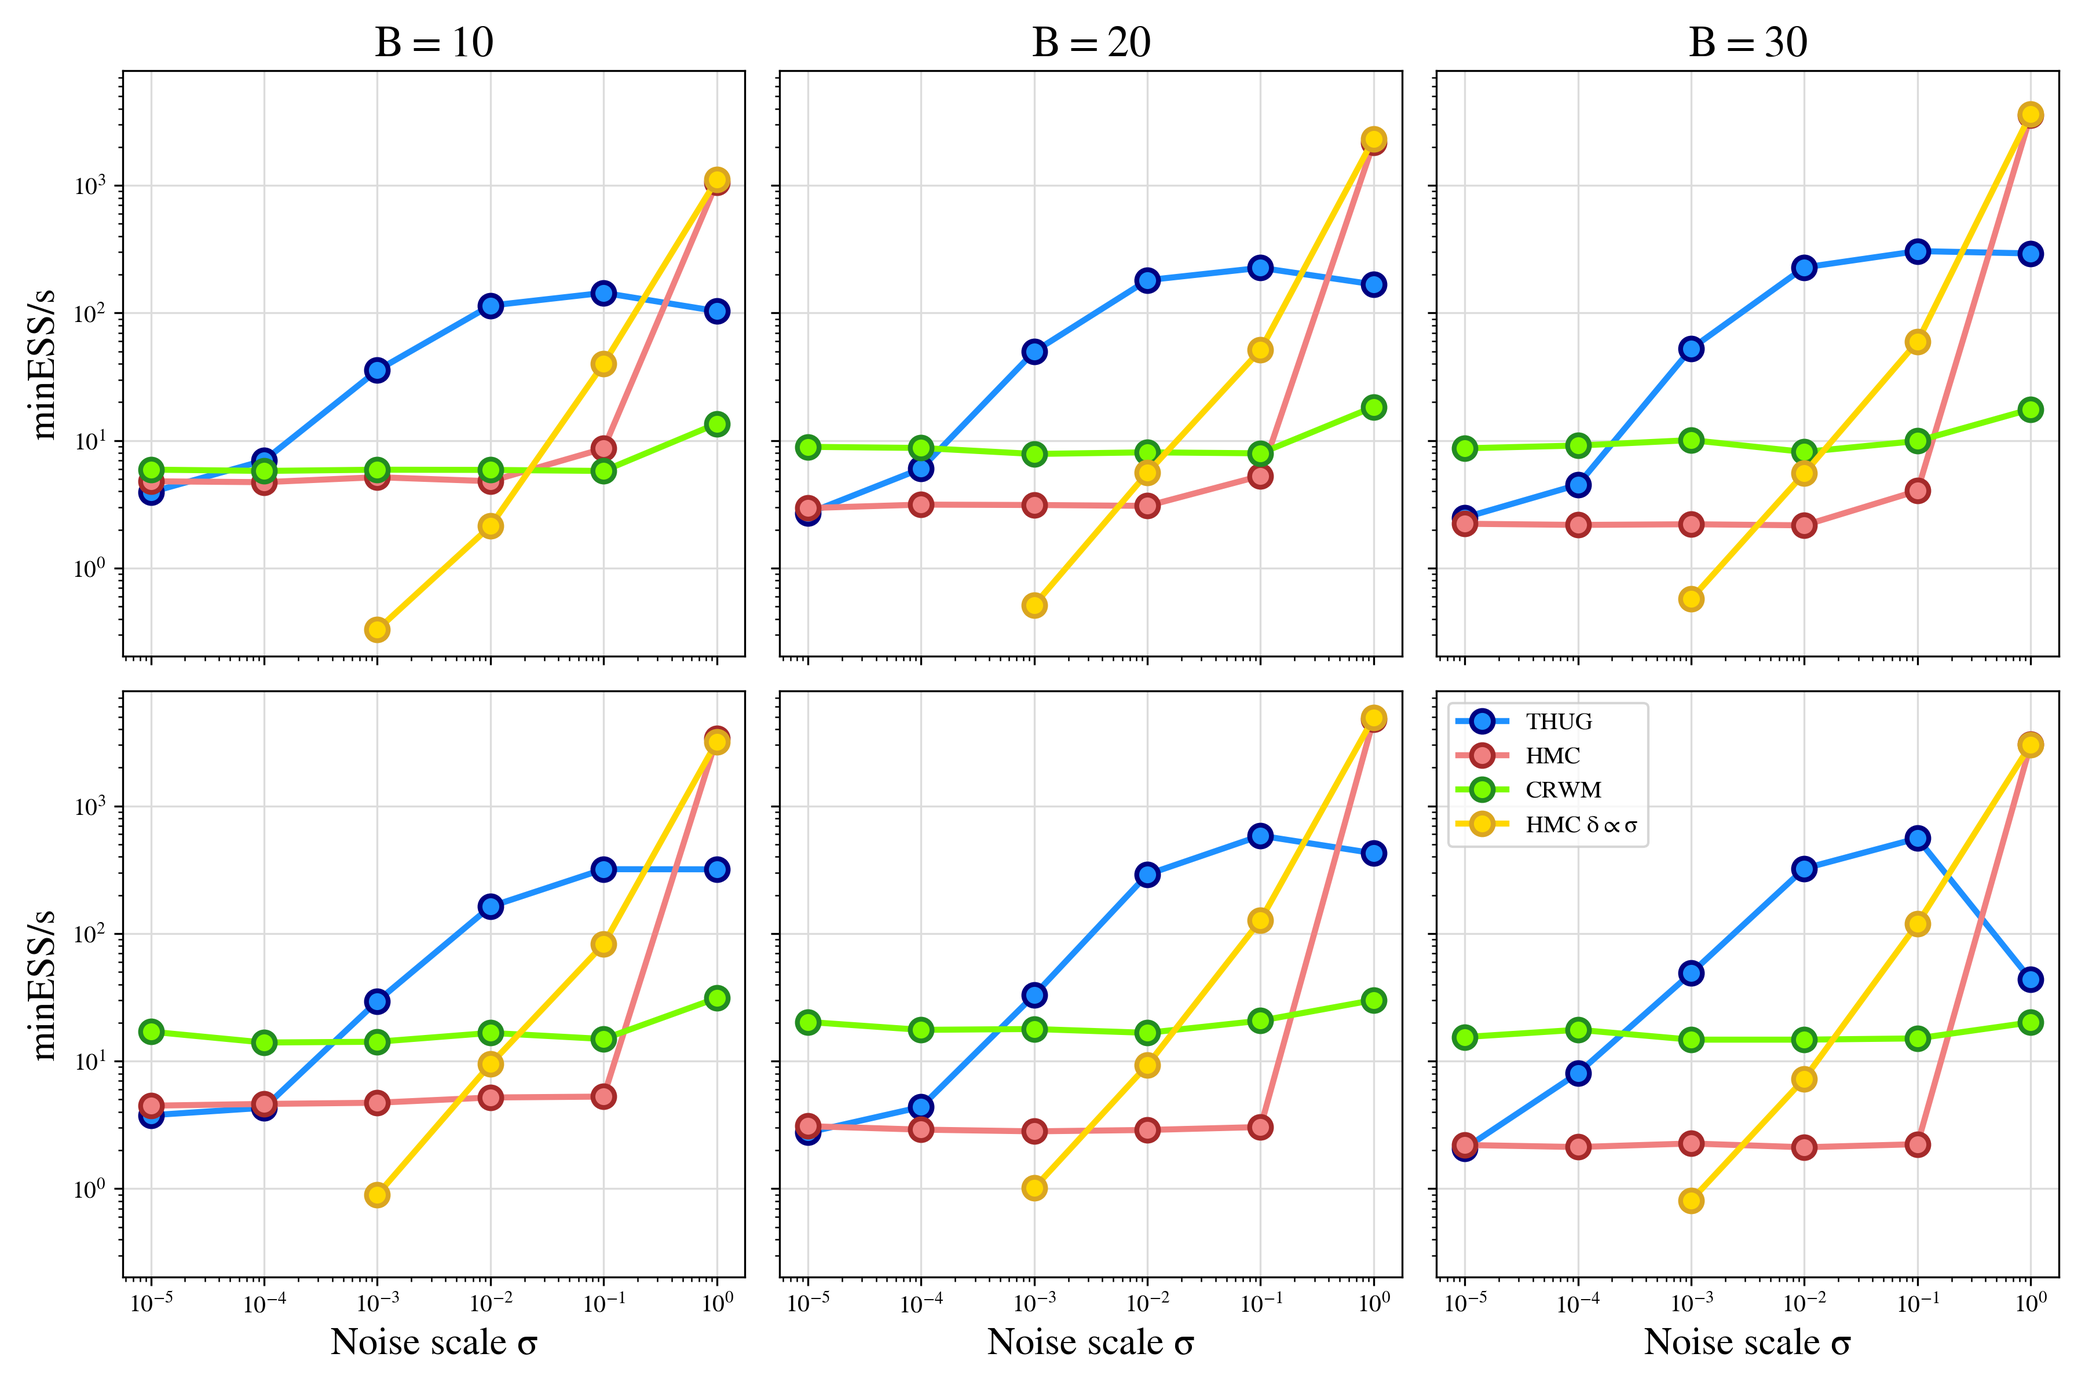
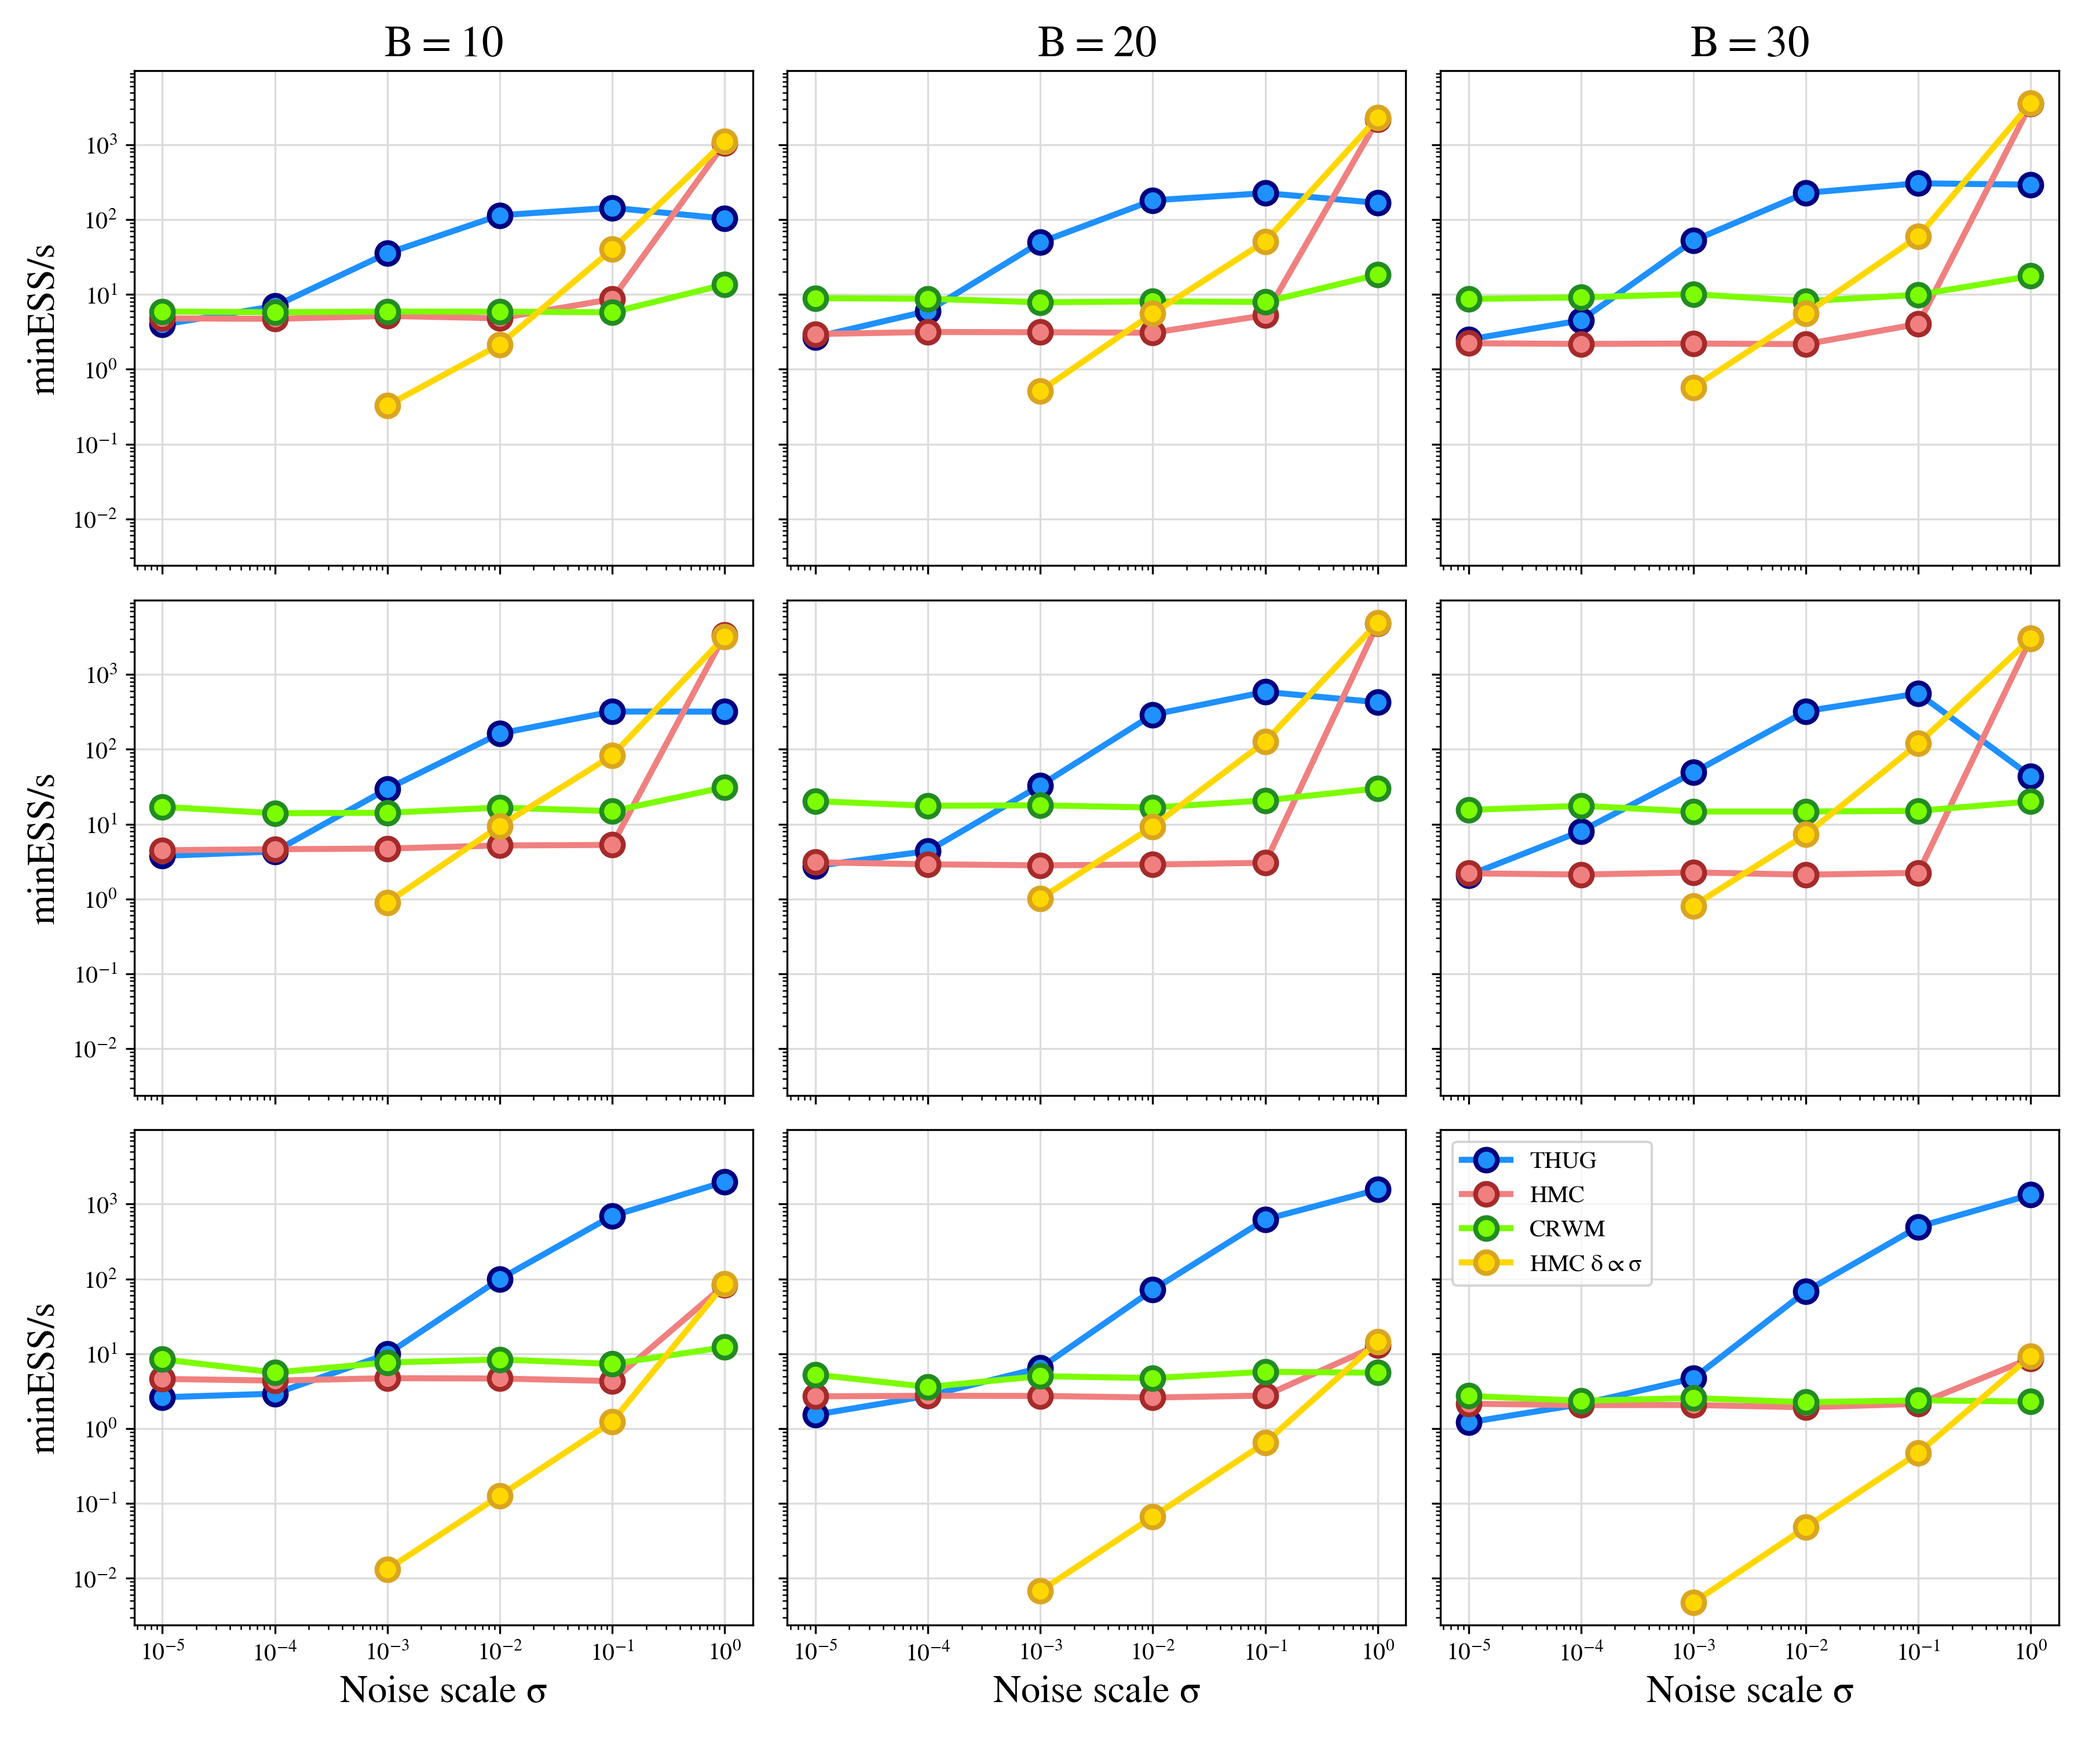
full grid plot

Changed region(s): [[0.0, 0.0, 0.9956, 1.0]]

diff --git a/generate_min_ess_grid_plot.py b/generate_min_ess_grid_plot.py
@@ -4,18 +4,27 @@ import matplotlib.pyplot as plt
 from matplotlib import rc
 
 # Load data
+# B = 10
 with open("results/experiment1234_final_T10_step005.pkl", "rb") as file:
     results10_005 = pickle.load(file)
 
 with open("results/experiment1234_final_T10_step01.pkl", "rb") as file:
     results10_01 = pickle.load(file)
 
+with open("results/experiment1234_final_T10_step05.pkl", "rb") as file:
+    results10_05 = pickle.load(file)
+
+# B = 20
 with open("results/experiment1234_final_T20_step005.pkl", "rb") as file:
     results20_005 = pickle.load(file)
 
 with open("results/experiment1234_final_T20_step01.pkl", "rb") as file:
     results20_01 = pickle.load(file)
 
+with open("results/experiment1234_final_T20_step05.pkl", "rb") as file:
+    results20_05 = pickle.load(file)
+
+# B = 30
 with open("results/experiment1234_final_T30_step005.pkl", "rb") as file:
     results30_005 = pickle.load(file)
 
@@ -26,9 +35,9 @@ with open("results/experiment1234_final_T30_step05.pkl", "rb") as file:
     results30_05 = pickle.load(file)
 
 results = {
-    '10': [results10_005, results10_01],
-    '20': [results20_005, results20_01],
-    '30': [results30_005, results30_01]
+    '10': [results10_005, results10_01, results10_05],
+    '20': [results20_005, results20_01, results20_05],
+    '30': [results30_005, results30_01, results30_05]
 }
 
 sigmas = np.logspace(start=0.0, stop=-5.0, num=6, endpoint=True, base=10.0, dtype=np.float64)
@@ -36,12 +45,12 @@ cs = ['dodgerblue', 'lightcoral', 'lawngreen']
 mecs = ['navy', 'brown', 'forestgreen']
 algs = ['thug', 'hmc', 'crwm']
 Bs = [10, 20, 30]
-steps = [0.05, 0.1]
+steps = [0.05, 0.1, 0.5]
 
 rc('font', **{'family': 'STIXGeneral'})
-fig, ax = plt.subplots(figsize=(12, 8), nrows=2, ncols=3, sharex=True, sharey=True)
+fig, ax = plt.subplots(figsize=(12, 10), nrows=3, ncols=3, sharex=True, sharey=True)
 
-for ri in range(2):      # row index (for step sizes)
+for ri in range(3):      # row index (for step sizes)
     for ci in range(3):  # col index (for number of integration steps)
         for ai, alg in enumerate(algs):
             ax[ri, ci].plot(sigmas, results[str(10*(ci+1))][ri]['cc-az'][alg],

diff --git a/experiment_min_ess_over_runtime.py b/experiment_min_ess_over_runtime.py
@@ -52,7 +52,7 @@ if __name__ == "__main__":
     # Settings
     N = 2500      # Number of samples
     step = 0.5    # Step size
-    B = 30        # Number of integration steps
+    B = 10        # Number of integration steps
     tau = B*step  # Total integration time
     sigmas = np.logspace(start=0.0, stop=-5.0, num=6, endpoint=True, base=10.0, dtype=np.float64)  # noise scales
     ns = len(sigmas)
